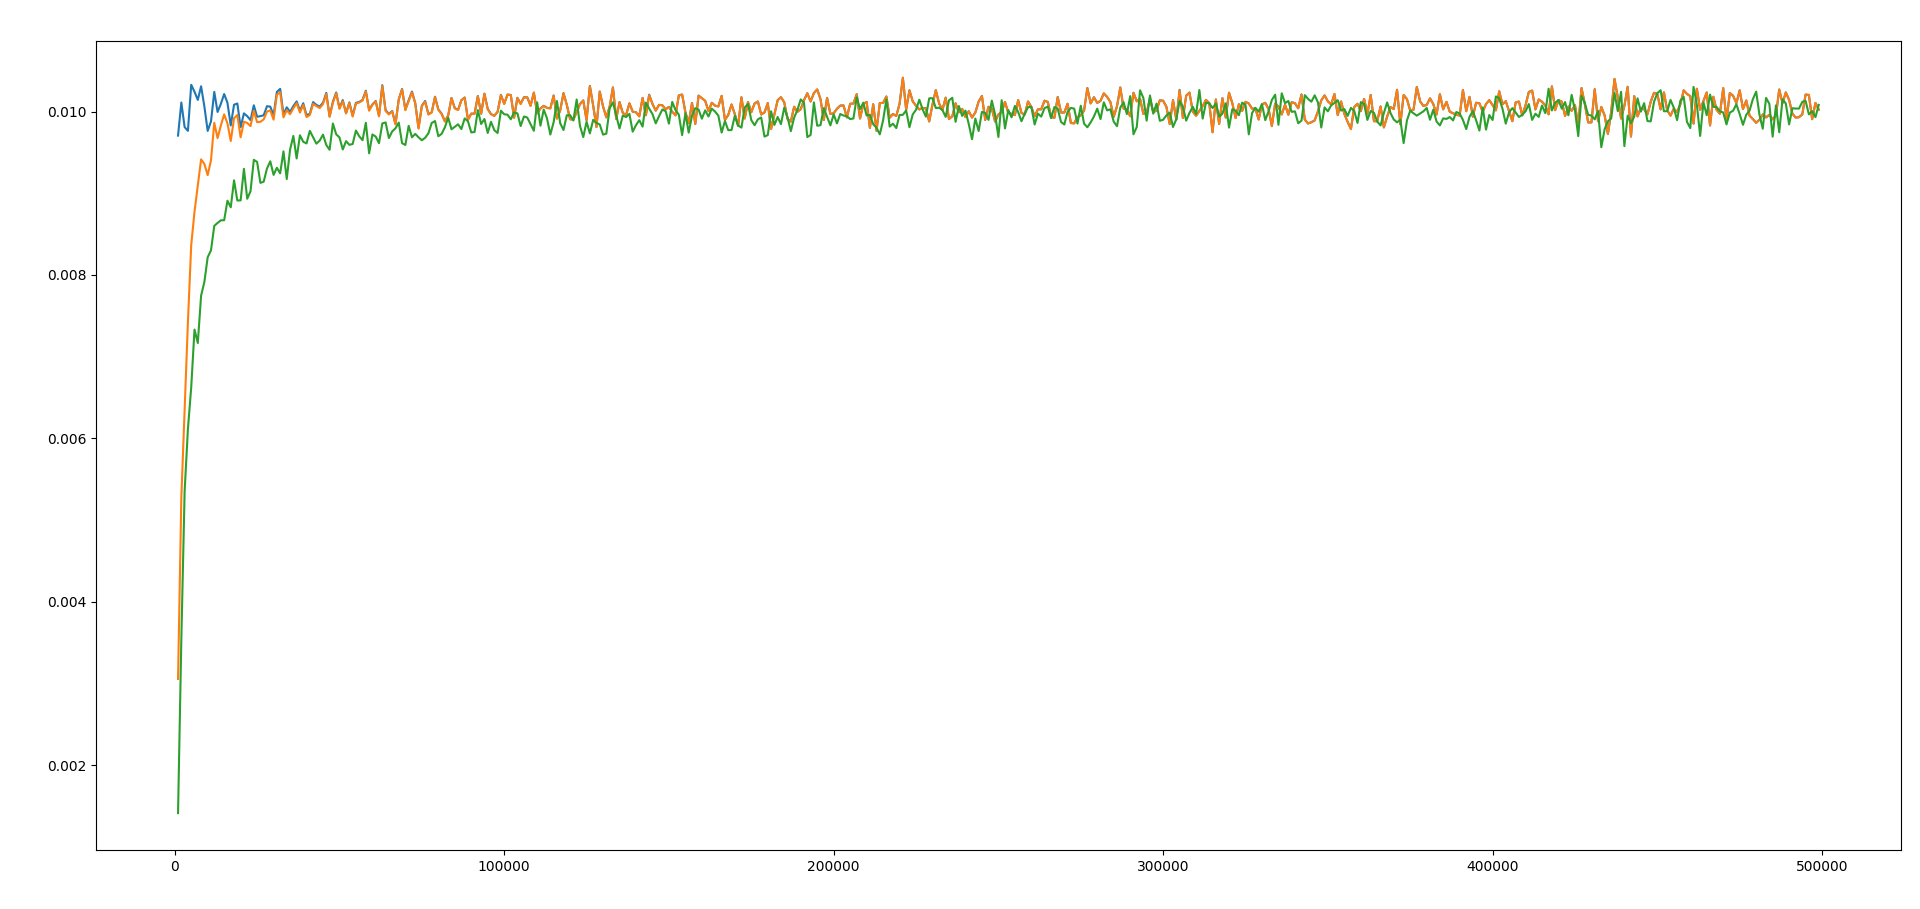
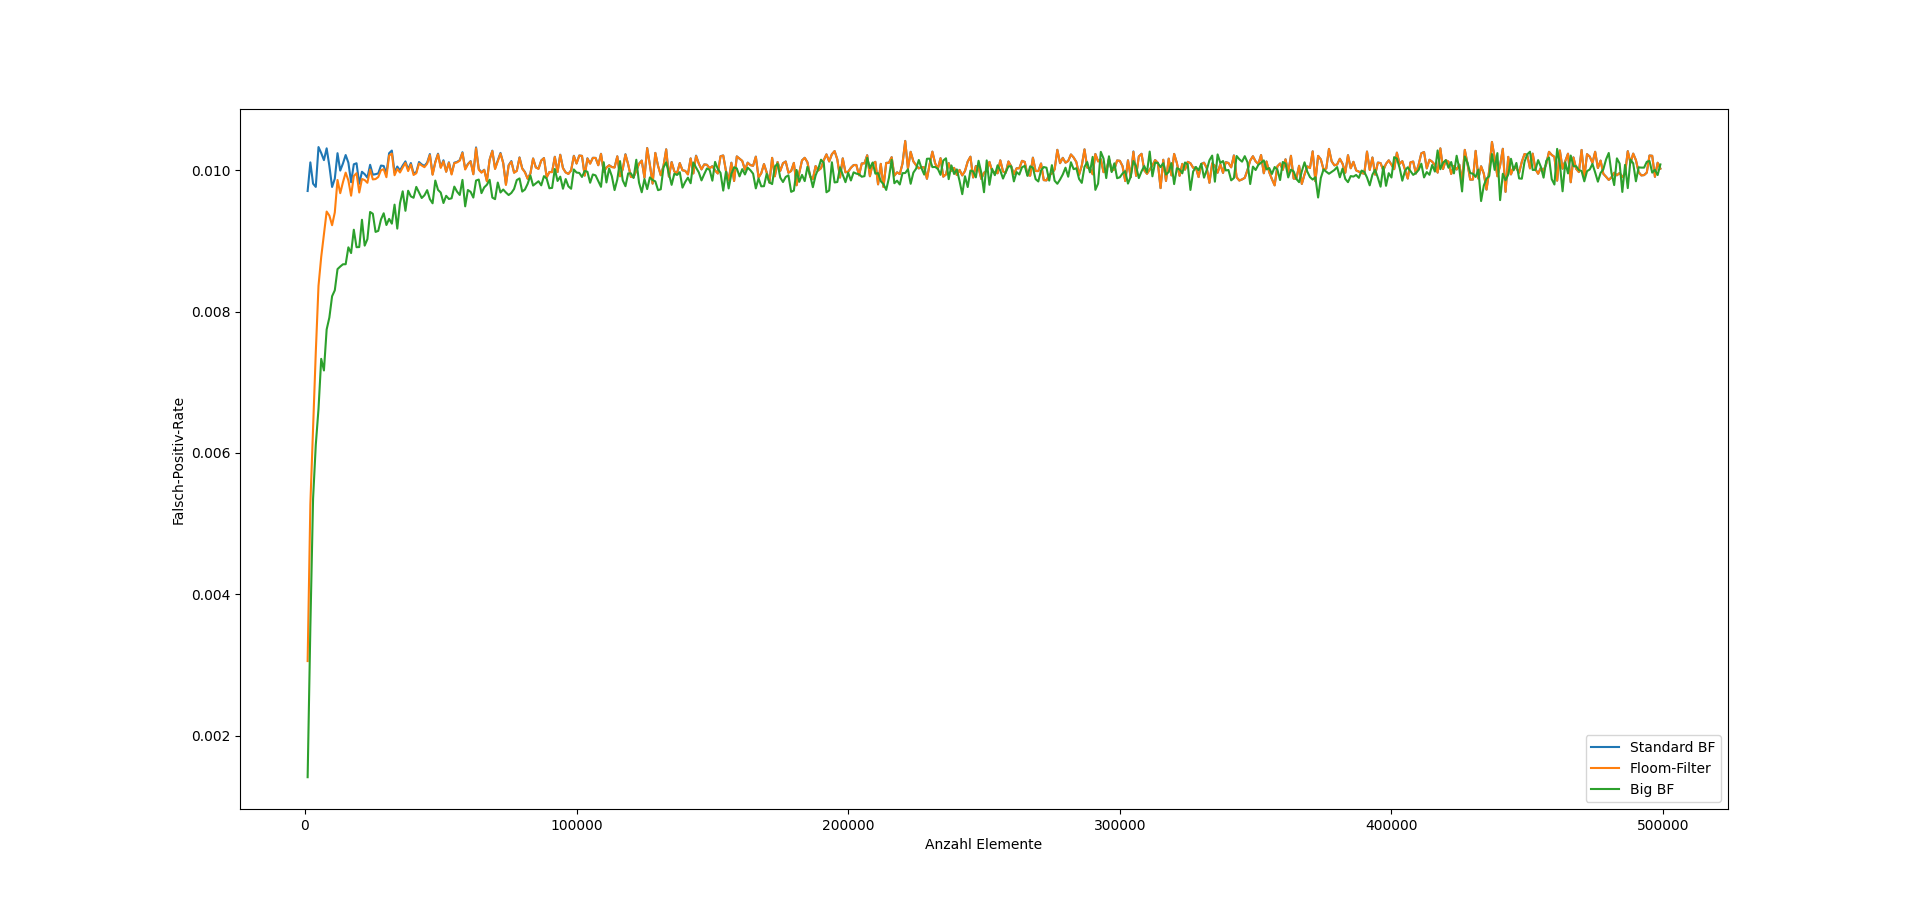
Füge Beschriftung zu Graphen hinzu

diff --git a/CProgrammierung/Implementation/Plots/Pruefen/plot.py b/CProgrammierung/Implementation/Plots/Pruefen/plot.py
@@ -4,12 +4,16 @@ import matplotlib.pyplot as plt
 
 cur_path = os.path.dirname(__file__)
 
-new_path = os.path.relpath('pruefen_0.01_8.txt', cur_path)
+new_path = os.path.relpath('pruefen_0.05_8.txt', cur_path)
 
 data = np.loadtxt(new_path)
 
-plt.plot(data[:,0], data[:,1])
-plt.plot(data[:,0], data[:,2])
-plt.plot(data[:,0], data[:,3])
+plt.plot(data[:,0], data[:,1], label='Standard BF')
+plt.plot(data[:,0], data[:,2], label='Floom-Filter')
+plt.plot(data[:,0], data[:,3], label='Big BF')
+plt.legend()
+
+plt.xlabel("Anzahl Elemente")
+plt.ylabel("Zeit in s")
 
 plt.show()

diff --git a/CProgrammierung/Implementation/Plots/FPP/plot.py b/CProgrammierung/Implementation/Plots/FPP/plot.py
@@ -4,12 +4,16 @@ import matplotlib.pyplot as plt
 
 cur_path = os.path.dirname(__file__)
 
-new_path = os.path.relpath('graph_0.01_8.txt', cur_path)
+new_path = os.path.relpath('graph_0.05_16.txt', cur_path)
 
 data = np.loadtxt(new_path)
 
 plt.plot(data[:,0], data[:,1], label='Standard BF')
 plt.plot(data[:,0], data[:,2], label='Floom-Filter')
 plt.plot(data[:,0], data[:,3], label='Big BF')
+plt.legend()
+
+plt.xlabel("Anzahl Elemente")
+plt.ylabel("Falsch-Positiv-Rate")
 
 plt.show()

diff --git a/CProgrammierung/Implementation/Plots/Einfuegen/plot.py b/CProgrammierung/Implementation/Plots/Einfuegen/plot.py
@@ -8,8 +8,12 @@ new_path = os.path.relpath('einfuegen_0.01_8.txt', cur_path)
 
 data = np.loadtxt(new_path)
 
-plt.plot(data[:,0], data[:,1])
-plt.plot(data[:,0], data[:,2])
-plt.plot(data[:,0], data[:,3])
+plt.plot(data[:,0], data[:,1], label='Standard BF')
+plt.plot(data[:,0], data[:,2], label='Floom-Filter')
+plt.plot(data[:,0], data[:,3], label='Big BF')
+plt.legend()
+
+plt.xlabel("Anzahl Elemente")
+plt.ylabel("Zeit in s")
 
 plt.show()
